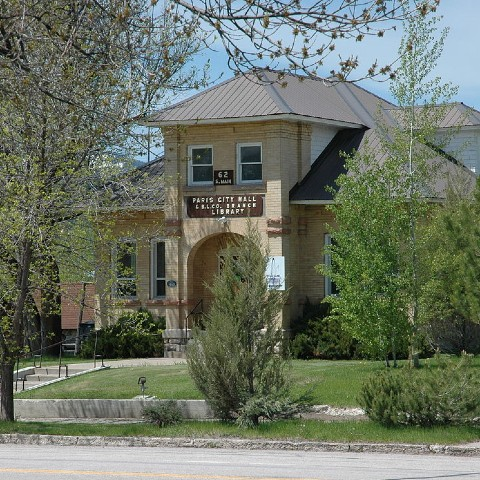
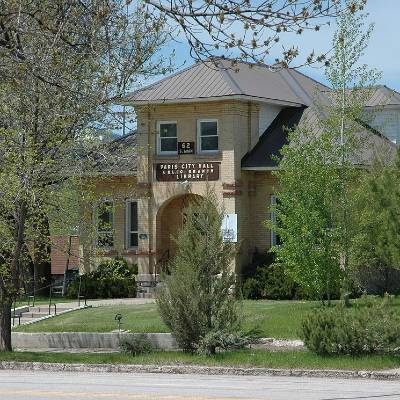
update

diff --git a/lesson10/js/weather.js b/lesson10/js/weather.js
@@ -65,6 +65,7 @@ async function renderWeather(cityName) {
     let htmlstring = '';
     let newDate = new Date();
     let dayDescrip = '';
+    let iconimg = '';
 
     newForecastDays.forEach(day => {
         newDate = new Date(day.dt_txt);
@@ -76,11 +77,42 @@ async function renderWeather(cityName) {
             dayDescrip = getWeekday(newDate.getDay());
         }
 
+        iconimg = '';
+        switch (day.weather[0].icon.substr(0, 2)) {
+            case '01': //sunny or clear
+                iconimg = 'sunny.png';
+                break;
+            case '02': //few clouds
+                iconimg = 'partly-cloudy.png';
+                break;
+            case '03': //scattered clouds
+                iconimg = 'cloudy.png';
+                break;
+            case '04': //broken clouds
+                iconimg = 'broken-clouds.png';
+                break;
+            case '09': //showers
+                iconimg = 'showers.png';
+                break;
+            case '10': //rain
+                iconimg = 'rain.png';
+                break;
+            case '11': //thunderstorm 
+                iconimg = 'thunderstorms.png';
+                break;
+            case '13': //snow
+                iconimg = 'snow.png';
+                break;
+            case '50': //mist or fog
+                iconimg = 'mists.png';
+                break;
+        }
+
         htmlstring += 
         `   <div class="forecast">
             <h4>${dayDescrip}</h4>          
             <p class="weather-date">${newDate.getMonth()+1}/${newDate.getDate()}</p>
-            <img src="https://openweathermap.org/img/w/${day.weather[0].icon}.png" alt="${day.weather[0].description}">
+            <img src="images/${iconimg}" alt="${day.weather[0].description}">
             <p class="weather-word">${day.weather[0].main}: ${Math.round(day.main.temp)}&deg;F</p>
             </div>
         `

diff --git a/lesson10/js/cities.js b/lesson10/js/cities.js
@@ -30,8 +30,8 @@ function addCity(cities, cityName) {
             htmlSegment =  `
                 <section class="city">                            
                     <picture>
-                        <source media="(max-width: 240px)" srcset="images/240${city.photo}">
-                        <source media="(min-width: 241px)" srcset="images/${city.photo}">
+                        <source media="(max-width: 400px)" srcset="images/200${city.photo}">
+                        <source media="(min-width: 401px)" srcset="images/${city.photo}">
                         <img src="images/${city.photo}" alt="Photo of ${city.name}">
                     </picture>
                     <div class="city-info">

diff --git a/lesson10/js/script.js b/lesson10/js/script.js
@@ -55,4 +55,3 @@ var pancakeExists = document.querySelector("aside.pancakes") !== null;
 if (pancakeExists && new Date().getDay() != 5) {
   document.querySelector("aside.pancakes").style.display = 'none';
 }
-
